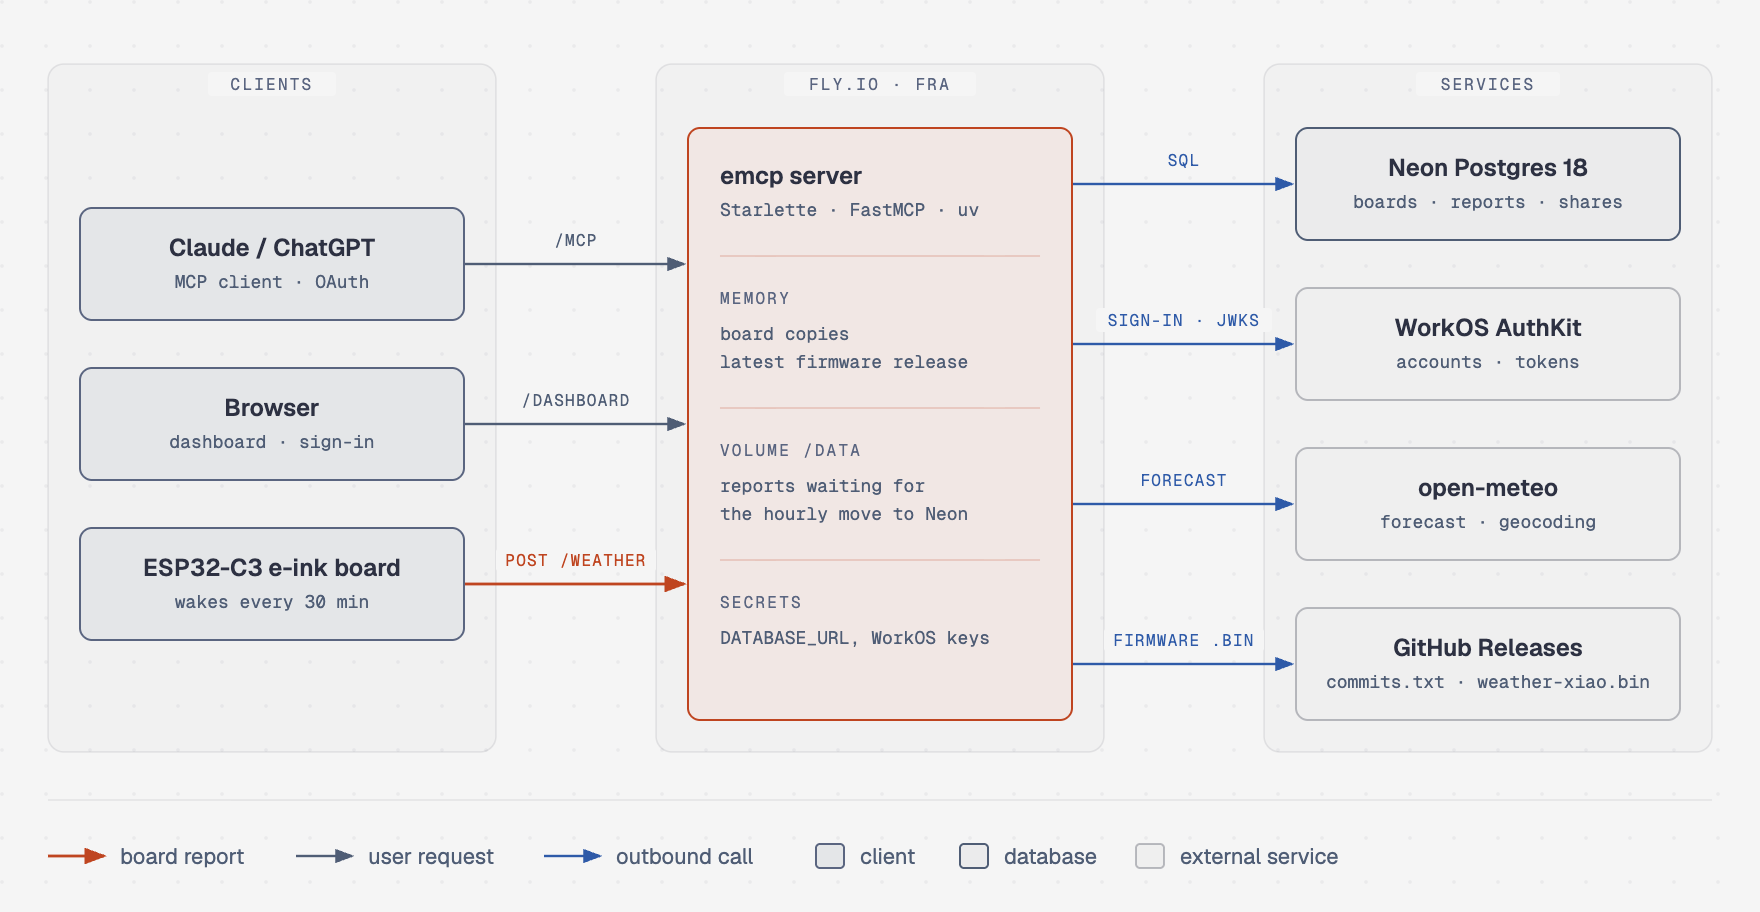
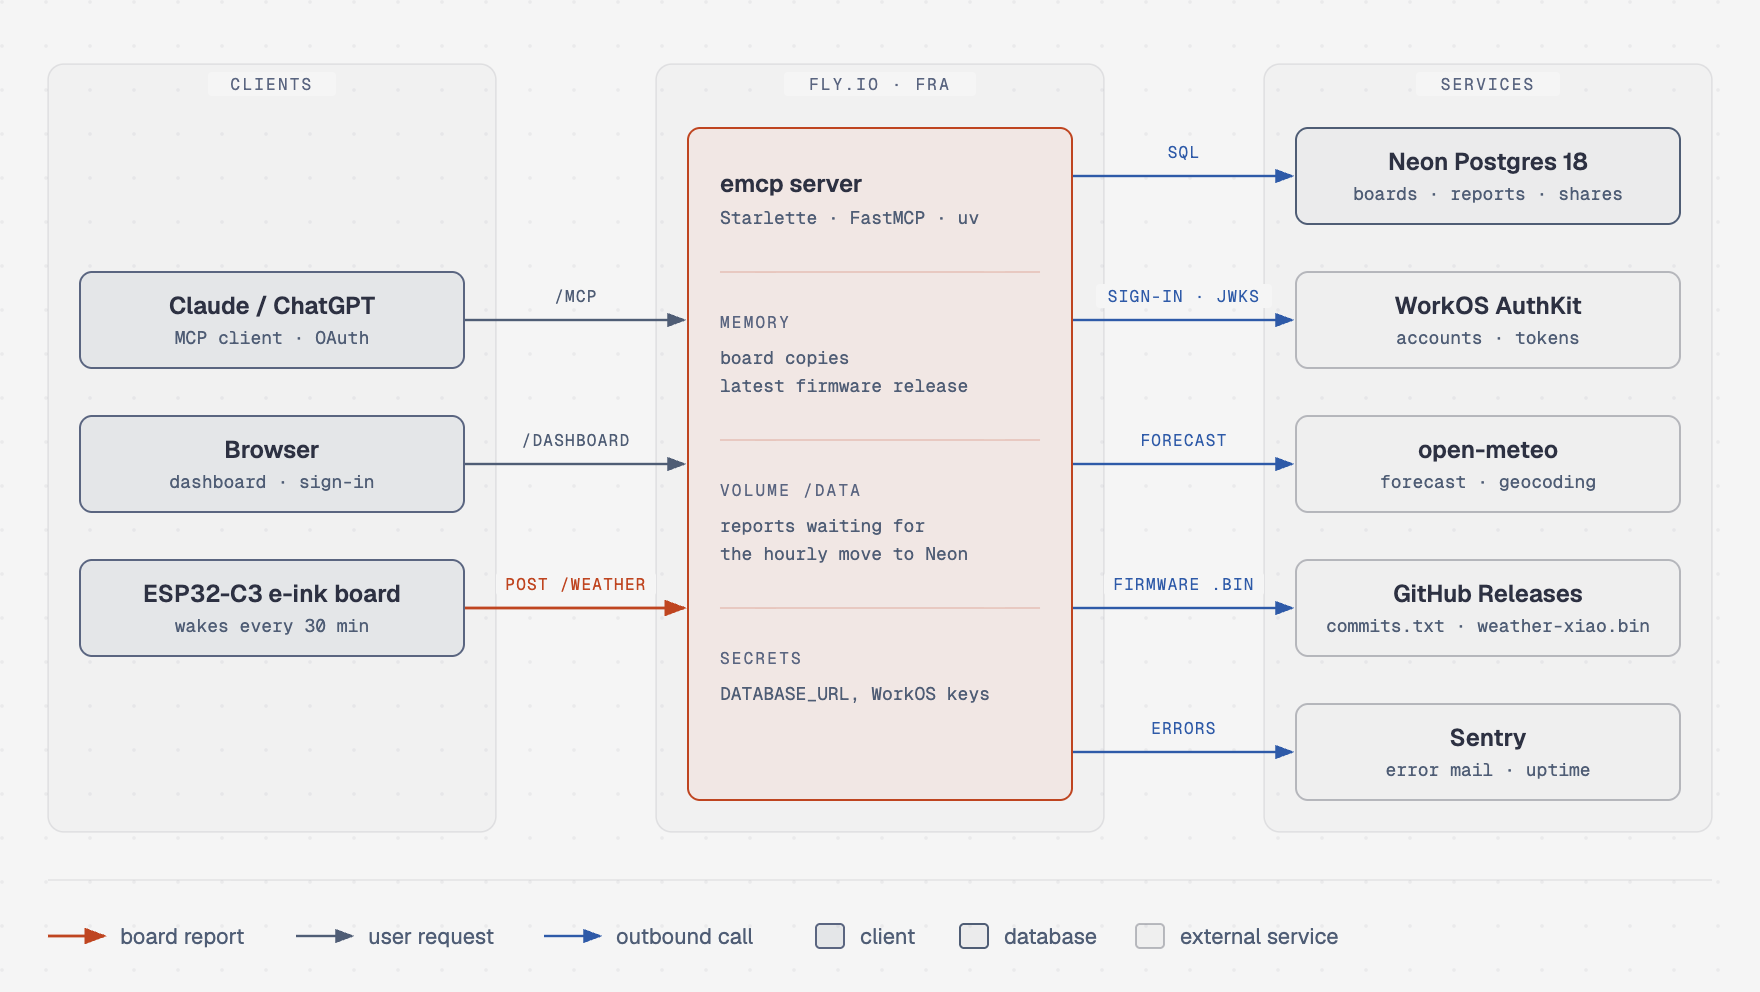
Show Sentry in the architecture diagram

diff --git a/docs/diagrams/architecture.html b/docs/diagrams/architecture.html
@@ -57,9 +57,9 @@
     <h1>Who talks to the emcp server</h1>
 
     <div class="diagram-container">
-      <svg viewBox="0 0 880 456" xmlns="http://www.w3.org/2000/svg" role="img" aria-labelledby="architecture-title architecture-desc">
+      <svg viewBox="0 0 880 496" xmlns="http://www.w3.org/2000/svg" role="img" aria-labelledby="architecture-title architecture-desc">
         <title id="architecture-title">emcp architecture</title>
-        <desc id="architecture-desc">Claude or ChatGPT, a browser and the ESP32 board call the emcp server on Fly.io, which uses Neon Postgres, WorkOS, open-meteo and GitHub Releases.</desc>
+        <desc id="architecture-desc">Claude or ChatGPT, a browser and the ESP32 board call the emcp server on Fly.io, which uses Neon Postgres, WorkOS, open-meteo, GitHub Releases and Sentry.</desc>
         <defs>
           <style>
             .name { font-family: 'Geist', system-ui, sans-serif; font-size: 12px; font-weight: 600; fill: #2d3142; }
@@ -80,110 +80,118 @@
         <rect width="100%" height="100%" fill="url(#dots)" opacity="0.55"/>
 
         <!-- zones -->
-        <rect x="24" y="32" width="224" height="344" rx="8" fill="rgba(45,49,66,0.02)" stroke="rgba(45,49,66,0.10)" stroke-width="0.8"/>
+        <rect x="24" y="32" width="224" height="384" rx="8" fill="rgba(45,49,66,0.02)" stroke="rgba(45,49,66,0.10)" stroke-width="0.8"/>
         <rect x="104" y="36" width="64" height="12" rx="2" fill="#f5f5f5"/>
         <text x="136" y="45" class="eye" text-anchor="middle">CLIENTS</text>
-        <rect x="328" y="32" width="224" height="344" rx="8" fill="rgba(45,49,66,0.02)" stroke="rgba(45,49,66,0.10)" stroke-width="0.8"/>
+        <rect x="328" y="32" width="224" height="384" rx="8" fill="rgba(45,49,66,0.02)" stroke="rgba(45,49,66,0.10)" stroke-width="0.8"/>
         <rect x="392" y="36" width="96" height="12" rx="2" fill="#f5f5f5"/>
         <text x="440" y="45" class="eye" text-anchor="middle">FLY.IO · FRA</text>
-        <rect x="632" y="32" width="224" height="344" rx="8" fill="rgba(45,49,66,0.02)" stroke="rgba(45,49,66,0.10)" stroke-width="0.8"/>
+        <rect x="632" y="32" width="224" height="384" rx="8" fill="rgba(45,49,66,0.02)" stroke="rgba(45,49,66,0.10)" stroke-width="0.8"/>
         <rect x="708" y="36" width="72" height="12" rx="2" fill="#f5f5f5"/>
         <text x="744" y="45" class="eye" text-anchor="middle">SERVICES</text>
 
         <!-- connectors: clients -> server -->
-        <line x1="232" y1="132" x2="342" y2="132" stroke="#4f5d75" stroke-width="1.2" marker-end="url(#arrow)"/>
-        <line x1="232" y1="212" x2="342" y2="212" stroke="#4f5d75" stroke-width="1.2" marker-end="url(#arrow)"/>
-        <line x1="232" y1="292" x2="342" y2="292" stroke="#bf4520" stroke-width="1.4" marker-end="url(#arrow-accent)"/>
+        <line x1="232" y1="160" x2="342" y2="160" stroke="#4f5d75" stroke-width="1.2" marker-end="url(#arrow)"/>
+        <line x1="232" y1="232" x2="342" y2="232" stroke="#4f5d75" stroke-width="1.2" marker-end="url(#arrow)"/>
+        <line x1="232" y1="304" x2="342" y2="304" stroke="#bf4520" stroke-width="1.4" marker-end="url(#arrow-accent)"/>
         <!-- connectors: server -> services -->
-        <line x1="536" y1="92"  x2="646" y2="92"  stroke="#2e5aa8" stroke-width="1.2" marker-end="url(#arrow-link)"/>
-        <line x1="536" y1="172" x2="646" y2="172" stroke="#2e5aa8" stroke-width="1.2" marker-end="url(#arrow-link)"/>
-        <line x1="536" y1="252" x2="646" y2="252" stroke="#2e5aa8" stroke-width="1.2" marker-end="url(#arrow-link)"/>
-        <line x1="536" y1="332" x2="646" y2="332" stroke="#2e5aa8" stroke-width="1.2" marker-end="url(#arrow-link)"/>
+        <line x1="536" y1="88" x2="646" y2="88" stroke="#2e5aa8" stroke-width="1.2" marker-end="url(#arrow-link)"/>
+        <line x1="536" y1="160" x2="646" y2="160" stroke="#2e5aa8" stroke-width="1.2" marker-end="url(#arrow-link)"/>
+        <line x1="536" y1="232" x2="646" y2="232" stroke="#2e5aa8" stroke-width="1.2" marker-end="url(#arrow-link)"/>
+        <line x1="536" y1="304" x2="646" y2="304" stroke="#2e5aa8" stroke-width="1.2" marker-end="url(#arrow-link)"/>
+        <line x1="536" y1="376" x2="646" y2="376" stroke="#2e5aa8" stroke-width="1.2" marker-end="url(#arrow-link)"/>
 
         <!-- connector labels (mask 6px above each line) -->
-        <rect x="268" y="114" width="40" height="12" rx="2" fill="#f5f5f5"/>
-        <text x="288" y="123" class="lbl" fill="#4f5d75" text-anchor="middle">/MCP</text>
-        <rect x="256" y="194" width="64" height="12" rx="2" fill="#f5f5f5"/>
-        <text x="288" y="203" class="lbl" fill="#4f5d75" text-anchor="middle">/DASHBOARD</text>
-        <rect x="248" y="274" width="80" height="12" rx="2" fill="#f5f5f5"/>
-        <text x="288" y="283" class="lbl" fill="#bf4520" text-anchor="middle">POST /WEATHER</text>
-        <rect x="576" y="74" width="32" height="12" rx="2" fill="#f5f5f5"/>
-        <text x="592" y="83" class="lbl" fill="#2e5aa8" text-anchor="middle">SQL</text>
-        <rect x="548" y="154" width="88" height="12" rx="2" fill="#f5f5f5"/>
-        <text x="592" y="163" class="lbl" fill="#2e5aa8" text-anchor="middle">SIGN-IN · JWKS</text>
-        <rect x="564" y="234" width="56" height="12" rx="2" fill="#f5f5f5"/>
-        <text x="592" y="243" class="lbl" fill="#2e5aa8" text-anchor="middle">FORECAST</text>
-        <rect x="552" y="314" width="80" height="12" rx="2" fill="#f5f5f5"/>
-        <text x="592" y="323" class="lbl" fill="#2e5aa8" text-anchor="middle">FIRMWARE .BIN</text>
+        <rect x="268" y="142" width="40" height="12" rx="2" fill="#f5f5f5"/>
+        <text x="288" y="151" class="lbl" fill="#4f5d75" text-anchor="middle">/MCP</text>
+        <rect x="256" y="214" width="64" height="12" rx="2" fill="#f5f5f5"/>
+        <text x="288" y="223" class="lbl" fill="#4f5d75" text-anchor="middle">/DASHBOARD</text>
+        <rect x="248" y="286" width="80" height="12" rx="2" fill="#f5f5f5"/>
+        <text x="288" y="295" class="lbl" fill="#bf4520" text-anchor="middle">POST /WEATHER</text>
+        <rect x="576" y="70" width="32" height="12" rx="2" fill="#f5f5f5"/>
+        <text x="592" y="79" class="lbl" fill="#2e5aa8" text-anchor="middle">SQL</text>
+        <rect x="548" y="142" width="88" height="12" rx="2" fill="#f5f5f5"/>
+        <text x="592" y="151" class="lbl" fill="#2e5aa8" text-anchor="middle">SIGN-IN · JWKS</text>
+        <rect x="564" y="214" width="56" height="12" rx="2" fill="#f5f5f5"/>
+        <text x="592" y="223" class="lbl" fill="#2e5aa8" text-anchor="middle">FORECAST</text>
+        <rect x="552" y="286" width="80" height="12" rx="2" fill="#f5f5f5"/>
+        <text x="592" y="295" class="lbl" fill="#2e5aa8" text-anchor="middle">FIRMWARE .BIN</text>
+        <rect x="568" y="358" width="48" height="12" rx="2" fill="#f5f5f5"/>
+        <text x="592" y="367" class="lbl" fill="#2e5aa8" text-anchor="middle">ERRORS</text>
 
         <!-- clients (input) -->
-        <rect x="40" y="104" width="192" height="56" rx="6" fill="#f5f5f5"/>
-        <rect x="40" y="104" width="192" height="56" rx="6" fill="rgba(79,93,117,0.10)" stroke="#5a6580" stroke-width="1"/>
-        <text x="136" y="128" class="name" text-anchor="middle">Claude / ChatGPT</text>
-        <text x="136" y="144" class="sub" text-anchor="middle">MCP client · OAuth</text>
+        <rect x="40" y="136" width="192" height="48" rx="6" fill="#f5f5f5"/>
+        <rect x="40" y="136" width="192" height="48" rx="6" fill="rgba(79,93,117,0.10)" stroke="#5a6580" stroke-width="1"/>
+        <text x="136" y="157" class="name" text-anchor="middle">Claude / ChatGPT</text>
+        <text x="136" y="172" class="sub" text-anchor="middle">MCP client · OAuth</text>
 
-        <rect x="40" y="184" width="192" height="56" rx="6" fill="#f5f5f5"/>
-        <rect x="40" y="184" width="192" height="56" rx="6" fill="rgba(79,93,117,0.10)" stroke="#5a6580" stroke-width="1"/>
-        <text x="136" y="208" class="name" text-anchor="middle">Browser</text>
-        <text x="136" y="224" class="sub" text-anchor="middle">dashboard · sign-in</text>
+        <rect x="40" y="208" width="192" height="48" rx="6" fill="#f5f5f5"/>
+        <rect x="40" y="208" width="192" height="48" rx="6" fill="rgba(79,93,117,0.10)" stroke="#5a6580" stroke-width="1"/>
+        <text x="136" y="229" class="name" text-anchor="middle">Browser</text>
+        <text x="136" y="244" class="sub" text-anchor="middle">dashboard · sign-in</text>
 
-        <rect x="40" y="264" width="192" height="56" rx="6" fill="#f5f5f5"/>
-        <rect x="40" y="264" width="192" height="56" rx="6" fill="rgba(79,93,117,0.10)" stroke="#5a6580" stroke-width="1"/>
-        <text x="136" y="288" class="name" text-anchor="middle">ESP32-C3 e-ink board</text>
-        <text x="136" y="304" class="sub" text-anchor="middle">wakes every 30 min</text>
+        <rect x="40" y="280" width="192" height="48" rx="6" fill="#f5f5f5"/>
+        <rect x="40" y="280" width="192" height="48" rx="6" fill="rgba(79,93,117,0.10)" stroke="#5a6580" stroke-width="1"/>
+        <text x="136" y="301" class="name" text-anchor="middle">ESP32-C3 e-ink board</text>
+        <text x="136" y="316" class="sub" text-anchor="middle">wakes every 30 min</text>
 
         <!-- server (focal) -->
-        <rect x="344" y="64" width="192" height="296" rx="6" fill="#f5f5f5"/>
-        <rect x="344" y="64" width="192" height="296" rx="6" fill="rgba(191,69,32,0.08)" stroke="#bf4520" stroke-width="1"/>
-        <text x="360" y="92" class="name">emcp server</text>
-        <text x="360" y="108" class="sub">Starlette · FastMCP · uv</text>
-        <line x1="360" y1="128" x2="520" y2="128" stroke="rgba(191,69,32,0.25)" stroke-width="0.8"/>
-        <text x="360" y="152" class="eye">MEMORY</text>
-        <text x="360" y="170" class="sub">board copies</text>
-        <text x="360" y="184" class="sub">latest firmware release</text>
-        <line x1="360" y1="204" x2="520" y2="204" stroke="rgba(191,69,32,0.25)" stroke-width="0.8"/>
-        <text x="360" y="228" class="eye">VOLUME /DATA</text>
-        <text x="360" y="246" class="sub">reports waiting for</text>
-        <text x="360" y="260" class="sub">the hourly move to Neon</text>
-        <line x1="360" y1="280" x2="520" y2="280" stroke="rgba(191,69,32,0.25)" stroke-width="0.8"/>
-        <text x="360" y="304" class="eye">SECRETS</text>
-        <text x="360" y="322" class="sub">DATABASE_URL, WorkOS keys</text>
+        <rect x="344" y="64" width="192" height="336" rx="6" fill="#f5f5f5"/>
+        <rect x="344" y="64" width="192" height="336" rx="6" fill="rgba(191,69,32,0.08)" stroke="#bf4520" stroke-width="1"/>
+        <text x="360" y="96" class="name">emcp server</text>
+        <text x="360" y="112" class="sub">Starlette · FastMCP · uv</text>
+        <line x1="360" y1="136" x2="520" y2="136" stroke="rgba(191,69,32,0.25)" stroke-width="0.8"/>
+        <text x="360" y="164" class="eye">MEMORY</text>
+        <text x="360" y="182" class="sub">board copies</text>
+        <text x="360" y="196" class="sub">latest firmware release</text>
+        <line x1="360" y1="220" x2="520" y2="220" stroke="rgba(191,69,32,0.25)" stroke-width="0.8"/>
+        <text x="360" y="248" class="eye">VOLUME /DATA</text>
+        <text x="360" y="266" class="sub">reports waiting for</text>
+        <text x="360" y="280" class="sub">the hourly move to Neon</text>
+        <line x1="360" y1="304" x2="520" y2="304" stroke="rgba(191,69,32,0.25)" stroke-width="0.8"/>
+        <text x="360" y="332" class="eye">SECRETS</text>
+        <text x="360" y="350" class="sub">DATABASE_URL, WorkOS keys</text>
 
         <!-- services -->
-        <rect x="648" y="64" width="192" height="56" rx="6" fill="#f5f5f5"/>
-        <rect x="648" y="64" width="192" height="56" rx="6" fill="rgba(45,49,66,0.05)" stroke="#4f5d75" stroke-width="1"/>
-        <text x="744" y="88" class="name" text-anchor="middle">Neon Postgres 18</text>
-        <text x="744" y="104" class="sub" text-anchor="middle">boards · reports · shares</text>
+        <rect x="648" y="64" width="192" height="48" rx="6" fill="#f5f5f5"/>
+        <rect x="648" y="64" width="192" height="48" rx="6" fill="rgba(45,49,66,0.05)" stroke="#4f5d75" stroke-width="1"/>
+        <text x="744" y="85" class="name" text-anchor="middle">Neon Postgres 18</text>
+        <text x="744" y="100" class="sub" text-anchor="middle">boards · reports · shares</text>
 
-        <rect x="648" y="144" width="192" height="56" rx="6" fill="#f5f5f5"/>
-        <rect x="648" y="144" width="192" height="56" rx="6" fill="rgba(45,49,66,0.03)" stroke="rgba(45,49,66,0.30)" stroke-width="1"/>
-        <text x="744" y="168" class="name" text-anchor="middle">WorkOS AuthKit</text>
-        <text x="744" y="184" class="sub" text-anchor="middle">accounts · tokens</text>
+        <rect x="648" y="136" width="192" height="48" rx="6" fill="#f5f5f5"/>
+        <rect x="648" y="136" width="192" height="48" rx="6" fill="rgba(45,49,66,0.03)" stroke="rgba(45,49,66,0.30)" stroke-width="1"/>
+        <text x="744" y="157" class="name" text-anchor="middle">WorkOS AuthKit</text>
+        <text x="744" y="172" class="sub" text-anchor="middle">accounts · tokens</text>
 
-        <rect x="648" y="224" width="192" height="56" rx="6" fill="#f5f5f5"/>
-        <rect x="648" y="224" width="192" height="56" rx="6" fill="rgba(45,49,66,0.03)" stroke="rgba(45,49,66,0.30)" stroke-width="1"/>
-        <text x="744" y="248" class="name" text-anchor="middle">open-meteo</text>
-        <text x="744" y="264" class="sub" text-anchor="middle">forecast · geocoding</text>
+        <rect x="648" y="208" width="192" height="48" rx="6" fill="#f5f5f5"/>
+        <rect x="648" y="208" width="192" height="48" rx="6" fill="rgba(45,49,66,0.03)" stroke="rgba(45,49,66,0.30)" stroke-width="1"/>
+        <text x="744" y="229" class="name" text-anchor="middle">open-meteo</text>
+        <text x="744" y="244" class="sub" text-anchor="middle">forecast · geocoding</text>
 
-        <rect x="648" y="304" width="192" height="56" rx="6" fill="#f5f5f5"/>
-        <rect x="648" y="304" width="192" height="56" rx="6" fill="rgba(45,49,66,0.03)" stroke="rgba(45,49,66,0.30)" stroke-width="1"/>
-        <text x="744" y="328" class="name" text-anchor="middle">GitHub Releases</text>
-        <text x="744" y="344" class="sub" text-anchor="middle">commits.txt · weather-xiao.bin</text>
+        <rect x="648" y="280" width="192" height="48" rx="6" fill="#f5f5f5"/>
+        <rect x="648" y="280" width="192" height="48" rx="6" fill="rgba(45,49,66,0.03)" stroke="rgba(45,49,66,0.30)" stroke-width="1"/>
+        <text x="744" y="301" class="name" text-anchor="middle">GitHub Releases</text>
+        <text x="744" y="316" class="sub" text-anchor="middle">commits.txt · weather-xiao.bin</text>
+
+        <rect x="648" y="352" width="192" height="48" rx="6" fill="#f5f5f5"/>
+        <rect x="648" y="352" width="192" height="48" rx="6" fill="rgba(45,49,66,0.03)" stroke="rgba(45,49,66,0.30)" stroke-width="1"/>
+        <text x="744" y="373" class="name" text-anchor="middle">Sentry</text>
+        <text x="744" y="388" class="sub" text-anchor="middle">error mail · uptime</text>
 
         <!-- legend strip -->
-        <line x1="24" y1="400" x2="856" y2="400" stroke="rgba(45,49,66,0.10)" stroke-width="0.8"/>
-        <line x1="24" y1="428" x2="52" y2="428" stroke="#bf4520" stroke-width="1.4" marker-end="url(#arrow-accent)"/>
-        <text x="60" y="432" class="key">board report</text>
-        <line x1="148" y1="428" x2="176" y2="428" stroke="#4f5d75" stroke-width="1.2" marker-end="url(#arrow)"/>
-        <text x="184" y="432" class="key">user request</text>
-        <line x1="272" y1="428" x2="300" y2="428" stroke="#2e5aa8" stroke-width="1.2" marker-end="url(#arrow-link)"/>
-        <text x="308" y="432" class="key">outbound call</text>
-        <rect x="408" y="422" width="14" height="12" rx="2" fill="rgba(79,93,117,0.10)" stroke="#5a6580" stroke-width="1"/>
-        <text x="430" y="432" class="key">client</text>
-        <rect x="480" y="422" width="14" height="12" rx="2" fill="rgba(45,49,66,0.05)" stroke="#4f5d75" stroke-width="1"/>
-        <text x="502" y="432" class="key">database</text>
-        <rect x="568" y="422" width="14" height="12" rx="2" fill="rgba(45,49,66,0.03)" stroke="rgba(45,49,66,0.30)" stroke-width="1"/>
-        <text x="590" y="432" class="key">external service</text>
+        <line x1="24" y1="440" x2="856" y2="440" stroke="rgba(45,49,66,0.10)" stroke-width="0.8"/>
+        <line x1="24" y1="468" x2="52" y2="468" stroke="#bf4520" stroke-width="1.4" marker-end="url(#arrow-accent)"/>
+        <text x="60" y="472" class="key">board report</text>
+        <line x1="148" y1="468" x2="176" y2="468" stroke="#4f5d75" stroke-width="1.2" marker-end="url(#arrow)"/>
+        <text x="184" y="472" class="key">user request</text>
+        <line x1="272" y1="468" x2="300" y2="468" stroke="#2e5aa8" stroke-width="1.2" marker-end="url(#arrow-link)"/>
+        <text x="308" y="472" class="key">outbound call</text>
+        <rect x="408" y="462" width="14" height="12" rx="2" fill="rgba(79,93,117,0.10)" stroke="#5a6580" stroke-width="1"/>
+        <text x="430" y="472" class="key">client</text>
+        <rect x="480" y="462" width="14" height="12" rx="2" fill="rgba(45,49,66,0.05)" stroke="#4f5d75" stroke-width="1"/>
+        <text x="502" y="472" class="key">database</text>
+        <rect x="568" y="462" width="14" height="12" rx="2" fill="rgba(45,49,66,0.03)" stroke="rgba(45,49,66,0.30)" stroke-width="1"/>
+        <text x="590" y="472" class="key">external service</text>
       </svg>
     </div>
   </div>

diff --git a/README.md b/README.md
@@ -19,7 +19,7 @@ Server for an ESP32 e-ink weather board. Each board reports its state on every w
 ![Sentry](https://img.shields.io/badge/Sentry-362D59?logo=sentry&logoColor=white)
 ![pytest](https://img.shields.io/badge/pytest-9.2-0A9EDC?logo=pytest&logoColor=white)
 
-![Claude or ChatGPT, a browser and the ESP32 board call the emcp server on Fly.io, which uses Neon Postgres, WorkOS, open-meteo and GitHub Releases](docs/diagrams/architecture.png)
+![Claude or ChatGPT, a browser and the ESP32 board call the emcp server on Fly.io, which uses Neon Postgres, WorkOS, open-meteo, GitHub Releases and Sentry](docs/diagrams/architecture.png)
 
 Sign-in goes through WorkOS AuthKit, and every person sees only their own boards. Board registration design: [docs/multi-user-rollout.ko.md](docs/multi-user-rollout.ko.md) (Korean).
 

diff --git a/docs/ko/README.md b/docs/ko/README.md
@@ -23,7 +23,7 @@ ESP32 e-ink 날씨 보드용 서버.
 ![Sentry](https://img.shields.io/badge/Sentry-362D59?logo=sentry&logoColor=white)
 ![pytest](https://img.shields.io/badge/pytest-9.2-0A9EDC?logo=pytest&logoColor=white)
 
-![Claude·ChatGPT, 브라우저, ESP32 보드가 Fly.io의 emcp 서버를 부르고, 서버는 Neon, WorkOS, open-meteo, GitHub Releases를 사용](../diagrams/architecture.png)
+![Claude·ChatGPT, 브라우저, ESP32 보드가 Fly.io의 emcp 서버를 부르고, 서버는 Neon, WorkOS, open-meteo, GitHub Releases, Sentry를 사용](../diagrams/architecture.png)
 
 - 로그인: WorkOS AuthKit 담당, 사람마다 자기 보드만 조회 가능
 - 보드 등록 설계: [multi-user-rollout.ko.md](../multi-user-rollout.ko.md)
